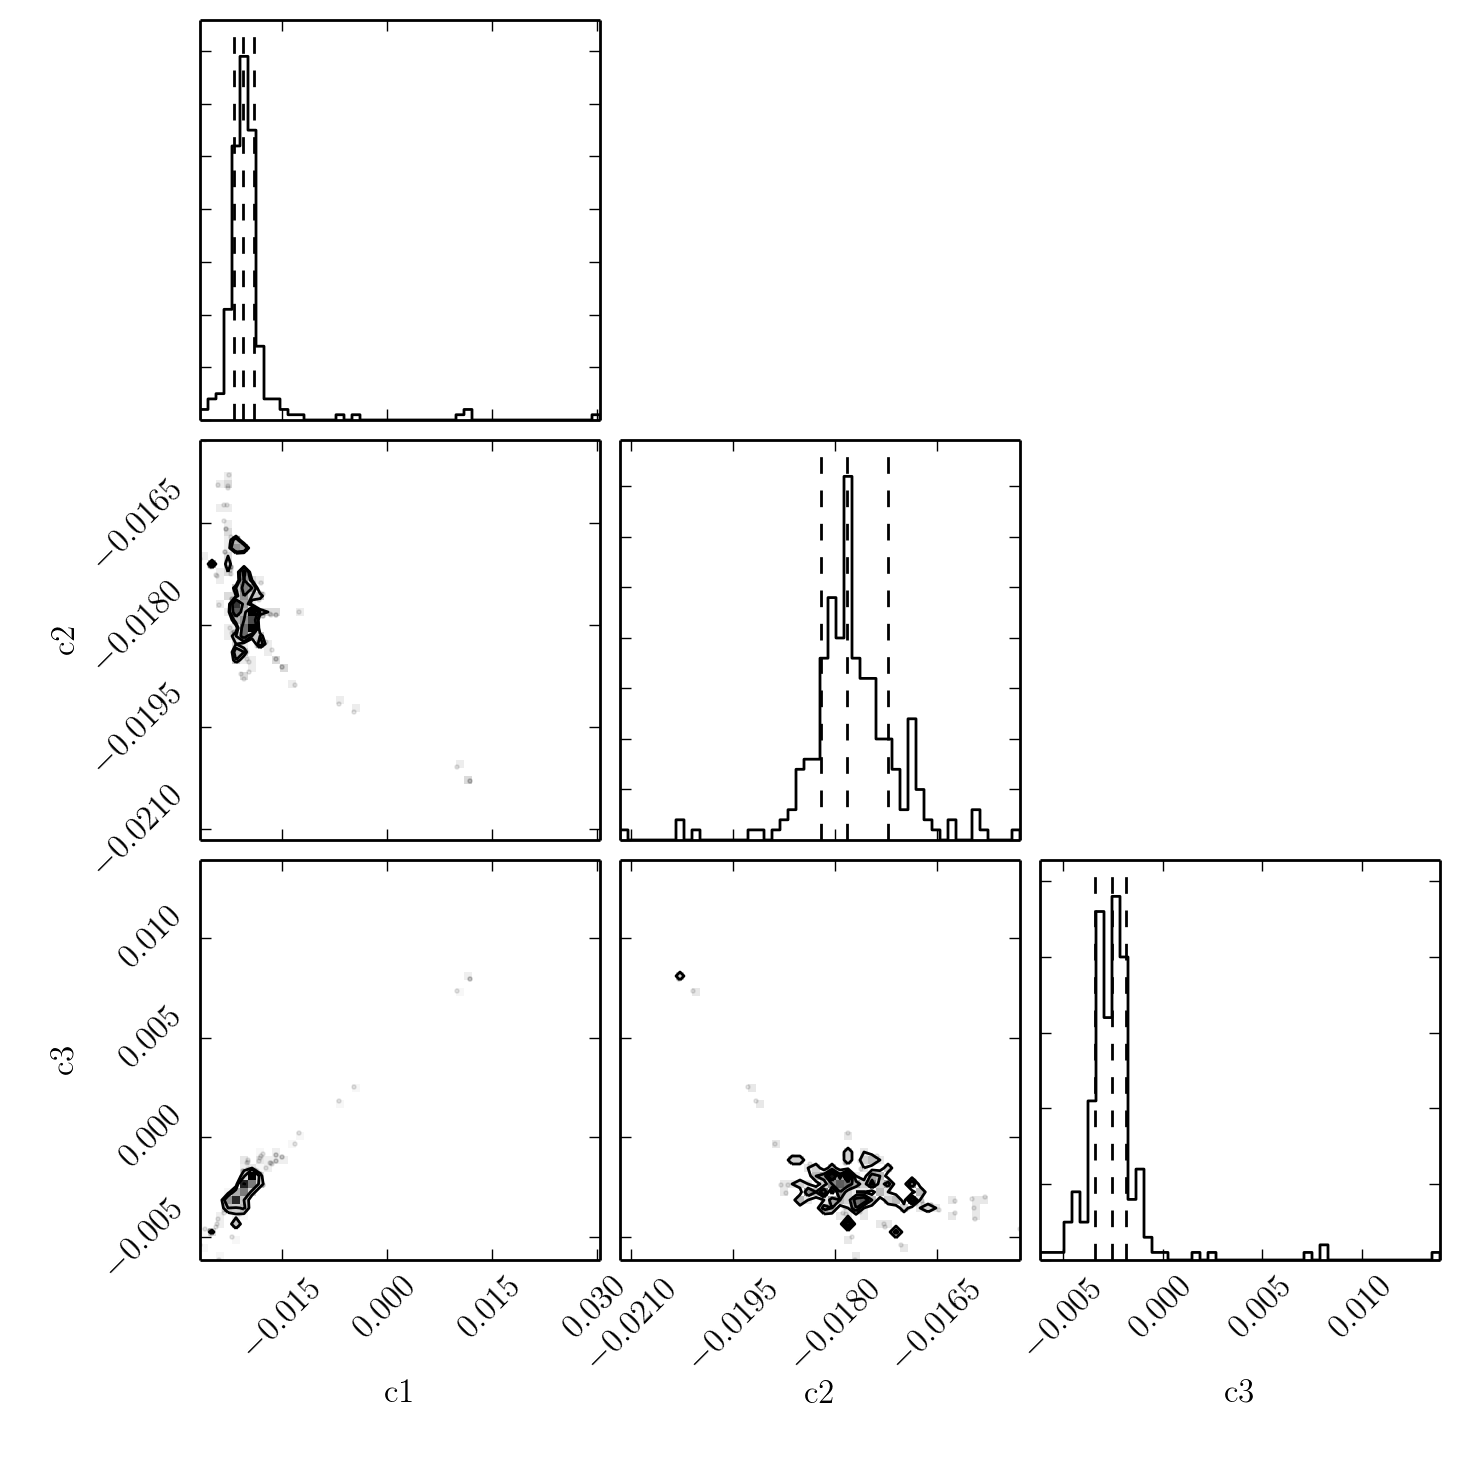
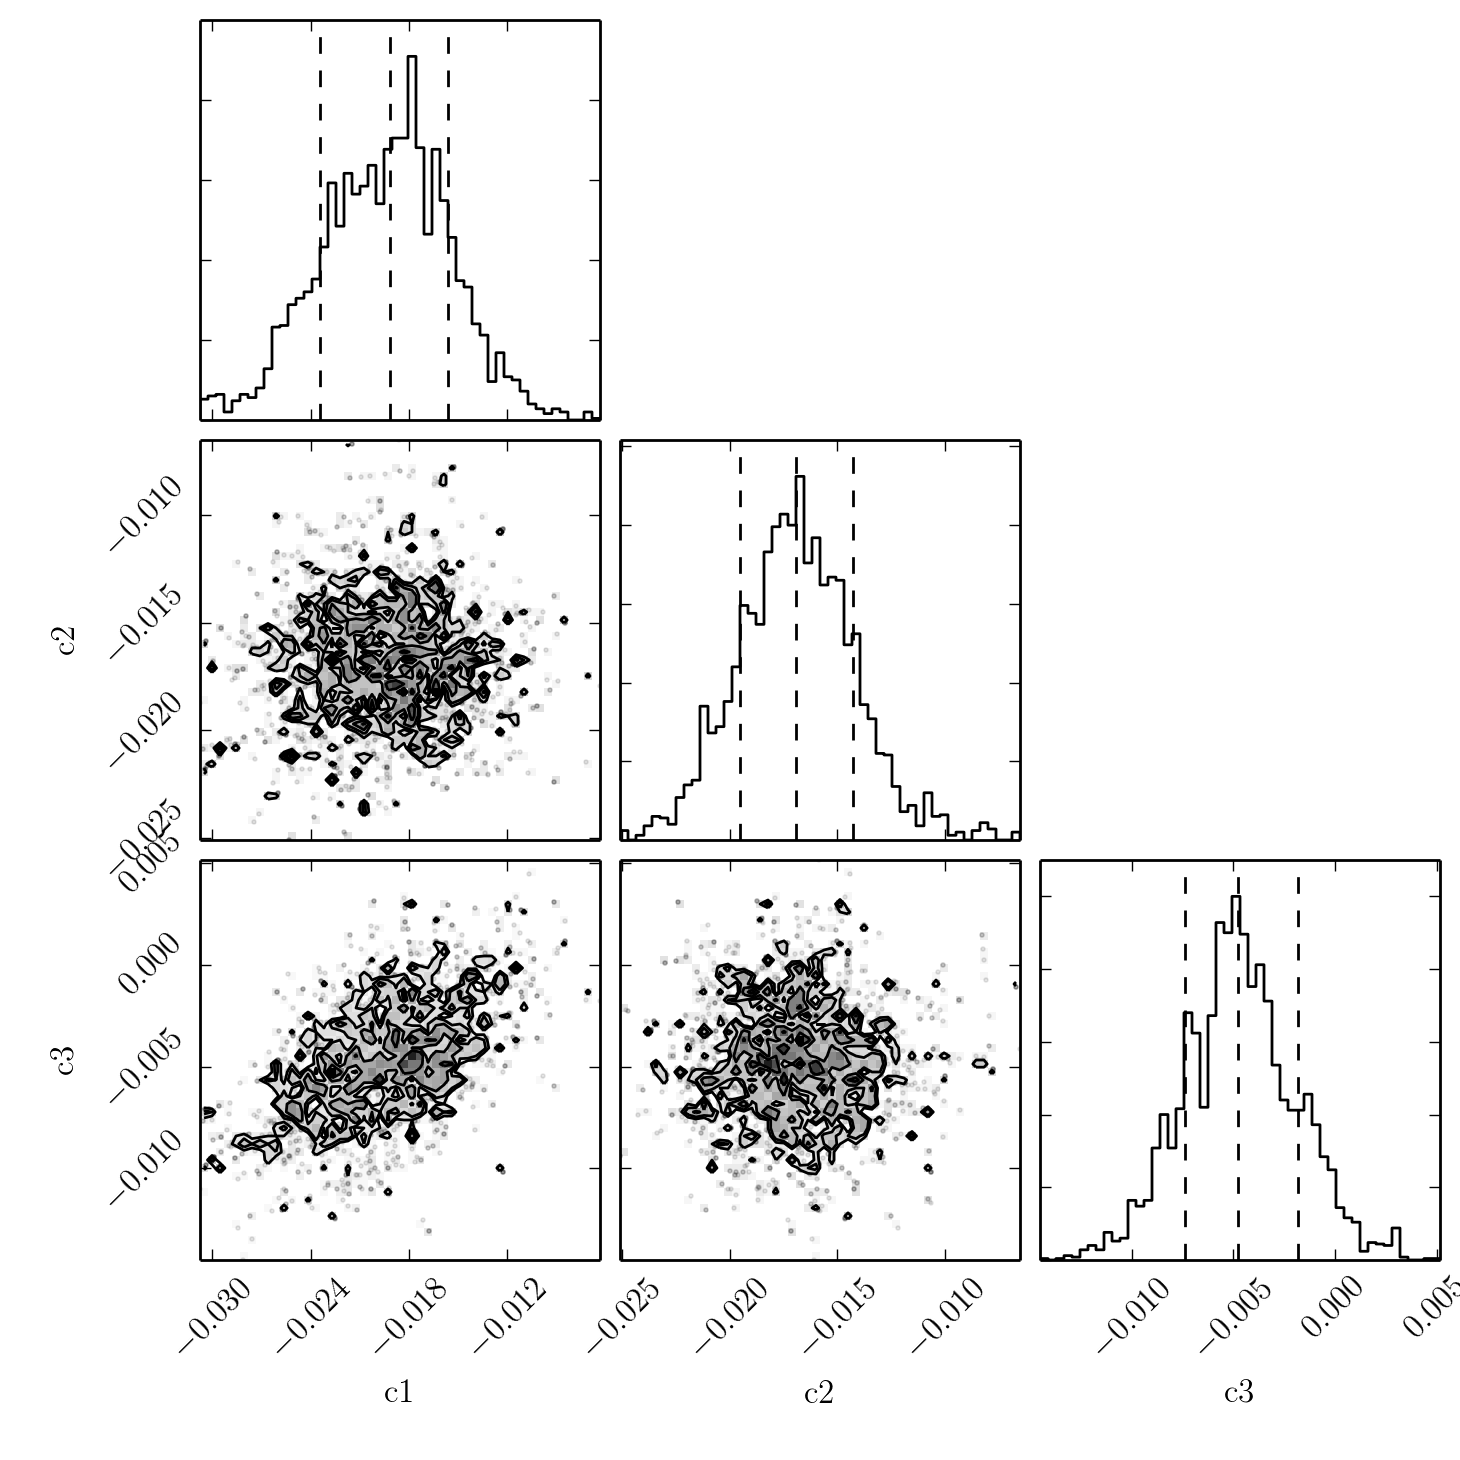
TRES library at 128 processes

diff --git a/lnprobs/base_lnprob.py b/lnprobs/base_lnprob.py
@@ -6,7 +6,7 @@ import numpy as np
 import sys
 from emcee.utils import MPIPool
 
-myDataSpectrum = DataSpectrum.open("/home/ian/Grad/Research/Disks/StellarSpectra/tests/WASP14/WASP-14_2009-06-15_04h13m57s_cb.spec.flux", orders=np.array([22]))
+myDataSpectrum = DataSpectrum.open("/home/ian/Grad/Research/Disks/StellarSpectra/tests/WASP14/WASP-14_2009-06-15_04h13m57s_cb.spec.flux", orders=np.array([21]))
 myInstrument = TRES()
 myHDF5Interface = HDF5Interface("/home/ian/Grad/Research/Disks/StellarSpectra/libraries/PHOENIX_submaster.hdf5")
 
@@ -15,7 +15,7 @@ stellar_Starting = {"temp":(6000, 6100), "logg":(3.9, 4.2), "Z":(-0.6, -0.3), "v
 stellar_tuple = C.dictkeys_to_tuple(stellar_Starting)
 
 cheb_Starting = {"c1": (-.02, -0.015), "c2": (-.0195, -0.0165), "c3": (-.005, .0)}
-cov_Starting = {"sigAmp":(0.8, 1.2), "logAmp":(-15, -13), "l":(0.1, 2.0)}
+cov_Starting = {"sigAmp":(0.9, 1.1), "logAmp":(-14.4, -14), "l":(0.1, 0.25)}
 cov_tuple = C.dictkeys_to_covtuple(cov_Starting)
 
 myModel = Model(myDataSpectrum, myInstrument, myHDF5Interface, stellar_tuple=stellar_tuple, cov_tuple=cov_tuple)
@@ -34,6 +34,8 @@ def lnprob_Cheb(p):
 
 def lnprob_Cov(p):
     params = myModel.zip_Cov_p(p)
+    if params["l"] > 0.4:
+        return -np.inf
     try:
         myModel.update_Cov(params)
         return myModel.evaluate()
@@ -49,10 +51,11 @@ myStellarSampler = StellarSampler(lnprob_Model, stellar_Starting, pool=pool)
 myChebSampler = ChebSampler(lnprob_Cheb, cheb_Starting, pool=pool)
 myCovSampler = CovSampler(lnprob_Cov, cov_Starting, pool=pool)
 
-myMegaSampler = MegaSampler(samplers=(myStellarSampler, myChebSampler, myCovSampler), burnInCadence=(15, 15, 0), cadence=(10, 10, 10))
+myMegaSampler = MegaSampler(samplers=(myStellarSampler, myChebSampler, myCovSampler),
+                            burnInCadence=(15, 15, 10), cadence=(10, 10, 10))
 
-myMegaSampler.burn_in(3)
+myMegaSampler.burn_in(10)
 myMegaSampler.reset()
-myMegaSampler.run(10)
+myMegaSampler.run(30)
 pool.close()
 myMegaSampler.plot()

diff --git a/tests/profile_evaluate.py b/tests/profile_evaluate.py
@@ -4,7 +4,7 @@ from StellarSpectra.model import Model
 from StellarSpectra.spectrum import DataSpectrum
 from StellarSpectra.grid_tools import TRES, HDF5Interface
 
-myDataSpectrum = DataSpectrum.open("/home/ian/Grad/Research/Disks/StellarSpectra/tests/WASP14/WASP-14_2009-06-15_04h13m57s_cb.spec.flux", orders=np.array([21, 22, 23]))
+myDataSpectrum = DataSpectrum.open("/home/ian/Grad/Research/Disks/StellarSpectra/tests/WASP14/WASP-14_2009-06-15_04h13m57s_cb.spec.flux", orders=np.array([22]))
 myInstrument = TRES()
 myHDF5Interface = HDF5Interface("/home/ian/Grad/Research/Disks/StellarSpectra/libraries/PHOENIX_submaster.hdf5")
 
@@ -24,7 +24,7 @@ def eval1():
 def main():
     print("updating model")
     myModel.update_Model(params)
-    #myModel.update_Cheb(np.array([0, 0, 0]))
+    myModel.update_Cheb(np.array([0, 0, 0]))
     print("evaluating 0")
     eval0()
     #print("evaluating 1")

diff --git a/scripts/create_TRES_library.py b/scripts/create_TRES_library.py
@@ -15,6 +15,6 @@ vsini = np.hstack((vsini1, vsini2, vsini3, vsini4))
 outdir = "/n/holyscratch/panstarrs/iczekala/willie/TRES/"
 mycreator = MasterToFITSGridProcessor(interface=myHDF5Interface, instrument=myInstrument,
                                       points={"temp":np.arange(2500, 12000, 100), "logg":np.arange(0.0, 5.6, 0.5), "Z":np.arange(-2., 1.1, 0.5),
-                                              "vsini":vsini}, flux_unit="f_nu", outdir=outdir, processes=32)
+                                              "vsini":vsini}, flux_unit="f_nu", outdir=outdir, processes=128)
 
 mycreator.process_all()

diff --git a/README.md b/README.md
@@ -135,17 +135,18 @@ Put the decorator `@profile` over the function you want to profile
 * Finish necessary grid_tools fixes/tests in order to guarantee the Master grid is correct for the production run
 * Update interpolator so that it can draw from HDF5 in parallel/mpi
 * Function to TRES-convolve spectrum from grid. Maybe this is part of Model?
-
 * sort out usage of C.kms_air and C.kms_vac
-* Update FITS writer to choose the unit correctly
 
-# Object oriented rewrite
+
 
 ## grid_tools.py
 
 alpha yes/no needs to be determined upon initialization.
 
-#Speed improvements
+# Covariance and SparseMatrices
+
+* Generate a sample noise spectrum from a covariance matrix, compare it to the residuals (could be done w/ Spectrum Explorer)
+* convert l from angstroms to km/s!
 
 If we were to implement SuiteSparse in C/Python for our purposes, what would we need?
 
@@ -163,25 +164,17 @@ So, there are a couple of functions that wouldn't always need to be run from the
 We may be able to update/downdate the Cholesky factorization to save time, especially if we know
 how the parameters of the covariance function changed. 2nd-order optimization.
 
-What is a shame is that the Julia code so nicely wraps SuiteSparse already, and would be easy to extend. I just don't see the functionality yet. Plus, since we are trying to use SuiteSparse anyway,
-maybe it makes more sense to access it directly?
-
 I also think it makes the most sense to try to do this with the Python-C API first. There really aren't many functions that need to be wrapped.
+It looks like numpy support with C-Api can be a bitch, although this is probably fairly well documented.
+It may also be smart to try this with Cython, since it seems like a smart thing to use, and has good support for
+transferring numpy arrays.
 
-It looks like numpy support with C-Api can be a bitch, although this is probably fairly well documented. It may also be smart to try this with Cython, since it seems like a smart thing to use, and has good support for transferring numpy arrays.
-
-
-
-The problem is that the evaluate() call is now becoming expensive.
-In particular, it's probably the spsolve call that's slow.
-
-* "linearize" the covariance matrix by essentially forcing the off-diagonal terms to be Toeplitz
+* option to "linearize" the covariance matrix by essentially forcing the off-diagonal terms to be Toeplitz
   This might have problems when we eventually want to mask out bad regions, like H alpha
 
 
-* Julia implementation of Cholfact, np.diags(), etc... might be significantly faster than Python.
-* To test this, I would need a method to implement the k_3_2/hanning kernel
-* IJulia notebooks seem to be giving me a problem. Also, there isn't really a satisfying way to wrap Julia code in python yet, unless I wrapped it in C, then wrapped that in Python.
+* Julia implementation of Cholfact, np.diags(), etc... is be significantly faster than Python.
+* there isn't really a satisfying way to wrap Julia code in python yet, unless I wrapped it in C, then wrapped that in Python.
 
 The Julia solution, using Cholesky decomposition, is actually rather satisfying. For l=5, something that would take python about 5
 seconds to compute, this only takes 0.8. This also means that we would be able to store the facorized object, and then compute terms later.
@@ -193,7 +186,6 @@ Calling Julia from Python seems to work fine using python2.
 Then, think about porting the fellow's code to python3.
 Alternatively, we could create a wrapper for Cholmod too.
 Try writing some C code that tests a sparse factorization.
-
 The problem here is that I would need to construct the sparse array IN C, don't pass the sparse Python array. The only thing that I would be able to pass is the parameters for
 creating the C array and the residual vector.
 
@@ -205,17 +197,18 @@ reimplement some C wrapping code.
 In theory it should be possible to wrap Julia code?
 Julia code can be wrapped in C (documentation). What about wrapped in Python?
 
+First, WRITE priors on l
+
+
+# Speedups
 
 * Convert DataSpectrum orders into an np.array()
-
-
 * update ModelSpectrum to draw defaults from C.var_defaults
 
 * Visualize cheb functions
 * Visualize spectrum and residuals
 
 * More tests for ModelSpectrum.downsample()
-
 * cprofile lnprob, check to see if pyFFTW wisdom and planning flags would speed things up.
 
 
@@ -324,6 +317,11 @@ How to restructure the code so that the HDF5 file does not overfill everything.
 just the wl ranges, then do the MCMC run on it.
 
 * specify min_vc for resampling from the HDF5 grid, as an attr for the wl file.
+
+* If ModelSpectrum.downsample() is too slow because of too many points, we can do the intermediate step of reducing the
+sampling after the FFT. Probably can speed up by 30% or so with this change. The first Interpolation to the FFT grid
+is not that slow, but it's the interpolation from the FFT grid to the Data grid that is slow. This is probably
+because a lot of evaluation at all the points is needed. So by reducing the number of points we'll be playing it safe.
 
 * ModelInterpolater._determine_chunk() will need to be updated to use create_log_lam_grid()
 
